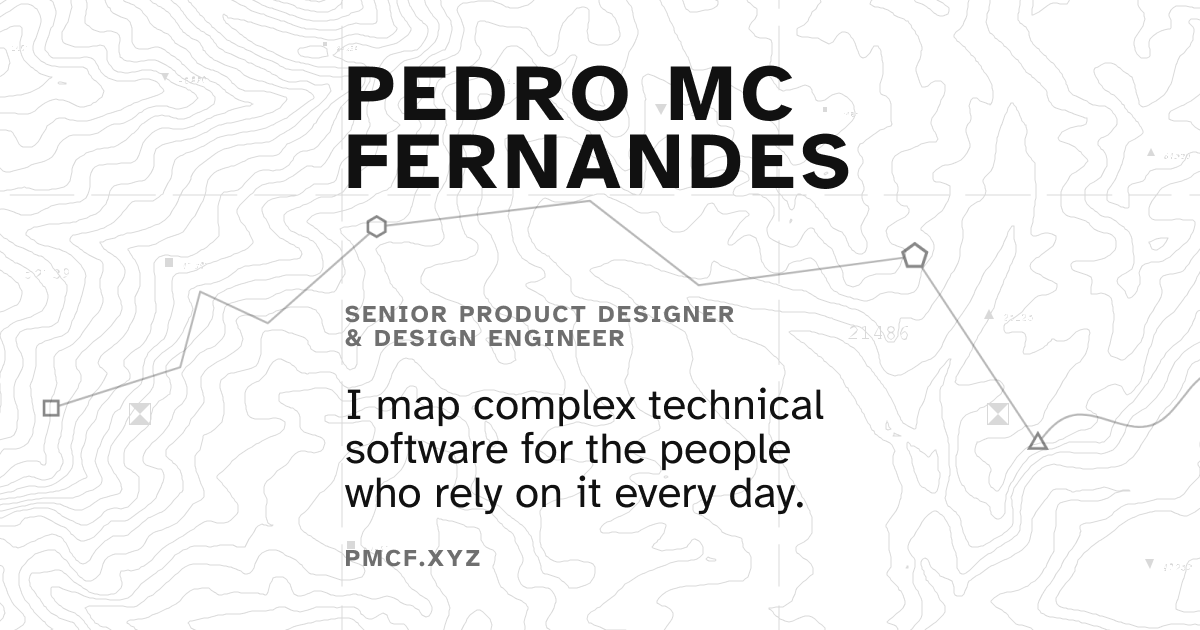
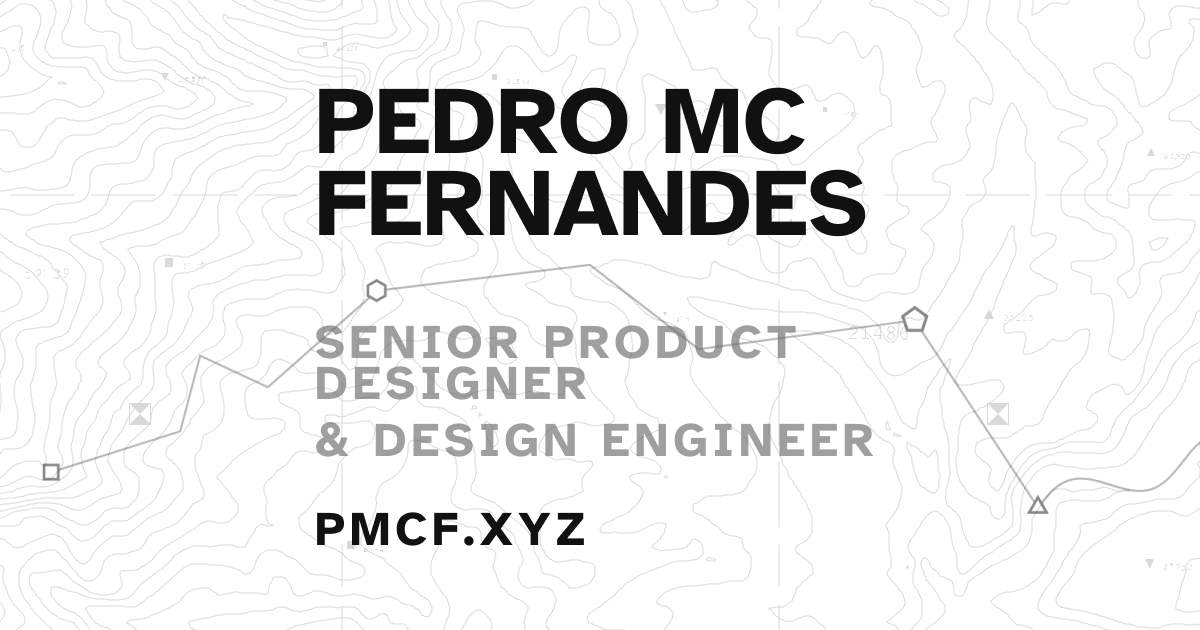
Replace the link-preview image with the name, role and route design
Swap public/og.png for the new 1200×630 card and rewrite its alt text, since the tagline it used to quote is gone.

diff --git a/src/site.config.ts b/src/site.config.ts
@@ -54,7 +54,7 @@ export const site: SiteConfig = {
     height: 630,
     type: 'image/png',
     alt:
-      'Pedro MC Fernandes, Senior Product Designer & Design Engineer: “I map complex technical software for the people who rely on it every day.” Set over a topographic map.',
+      'Pedro MC Fernandes, Senior Product Designer & Design Engineer, pmcf.xyz. Set over a topographic map crossed by a route of map markers.',
   },
   shortName: 'PMCF',
   themeColor: '#ffffff',
